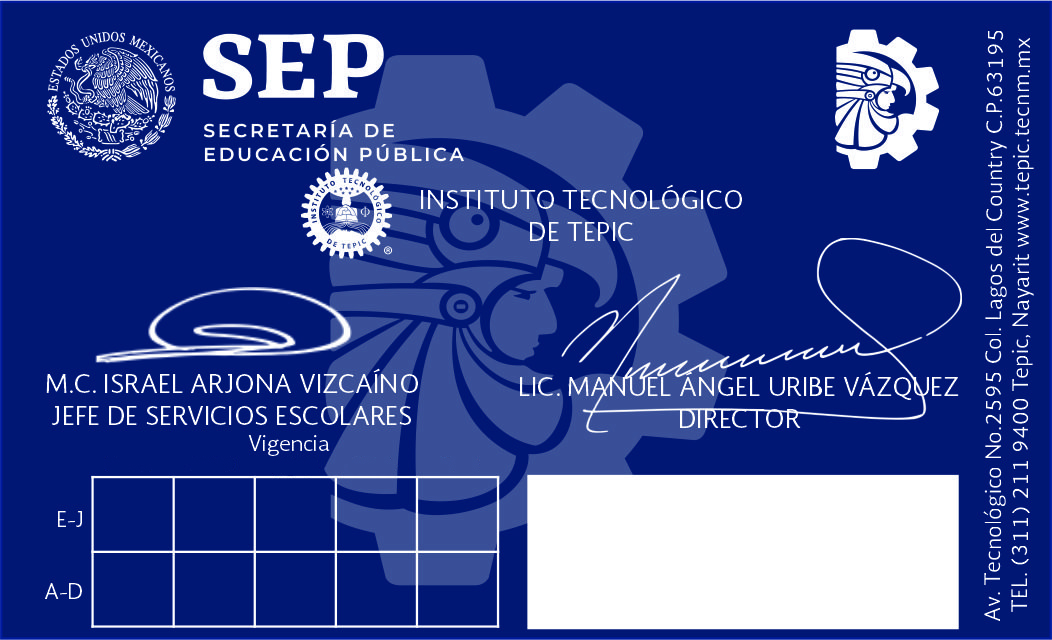
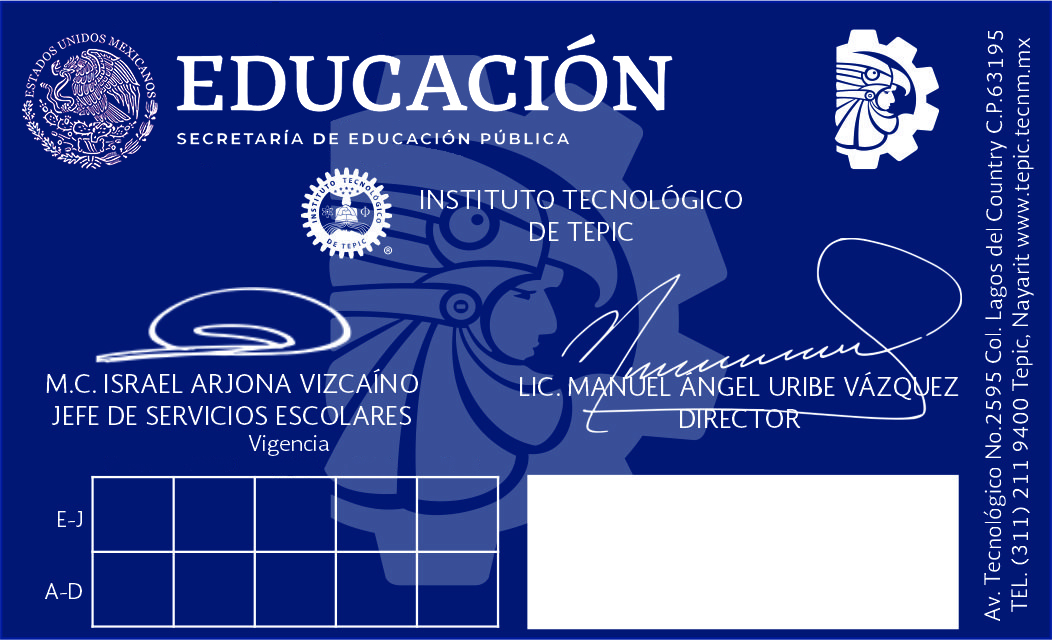
Feat: Update card employee and card student

Changed region(s): [[0.0, 0.0312, 0.6388, 0.2812]]

diff --git a/src/pages/credentials/card-employee-page/card-employee-page.component.ts b/src/pages/credentials/card-employee-page/card-employee-page.component.ts
@@ -129,7 +129,7 @@ export class CardEmployeePageComponent implements OnInit {
       this.frontBase64 = res1;
     });
 
-    this.imageToBase64Serv.getBase64('assets/imgs/employeeBack2.jpg').then(res2 => {
+    this.imageToBase64Serv.getBase64('assets/imgs/employeeBack3.jpg').then(res2 => {
       this.backBase64 = res2;
     });
   }
@@ -165,12 +165,25 @@ export class CardEmployeePageComponent implements OnInit {
             // // cara trasera de la credencial
             doc.addImage(this.backBase64, 'PNG', 0, 0, 88.6, 56);
 
+            // Agregar años a la credencial
+            const year = new Date();
+            doc.setTextColor(37, 54, 102);
+            doc.setFontSize(9);
+            doc.setFont('helvetica');
+            doc.setFontType('bold');
+            doc.text(2.7, 51.3,year.getFullYear()+'');
+            doc.text(12.7, 51.3,(year.getFullYear()+1)+'');
+            doc.text(22.7, 51.3,(year.getFullYear()+2)+'');
+            doc.text(32.7, 51.3,(year.getFullYear()+3)+'');
+            doc.text(42.7, 51.3,(year.getFullYear()+4)+'');
+
             // // foto del estudiante
 
             // // Numero de control con codigo de barra
             // doc.setTextColor(255, 255, 255);
             // doc.setFontSize(8);
             // doc.text(52, 45.5, doc.splitTextToSize('RFC: ' + employee.rfc, 35));
+            this.loading = false;
             window.open(doc.output('bloburl'), '_blank');
           });
         }, false);
@@ -179,7 +192,7 @@ export class CardEmployeePageComponent implements OnInit {
         }
       }, error => {
         console.log(error);
-      }, () => this.loading = false);
+      },);
     } else {
       this.notificationServ.showNotification(eNotificationType.ERROR, 'No cuenta con fotografía', '');
     }
